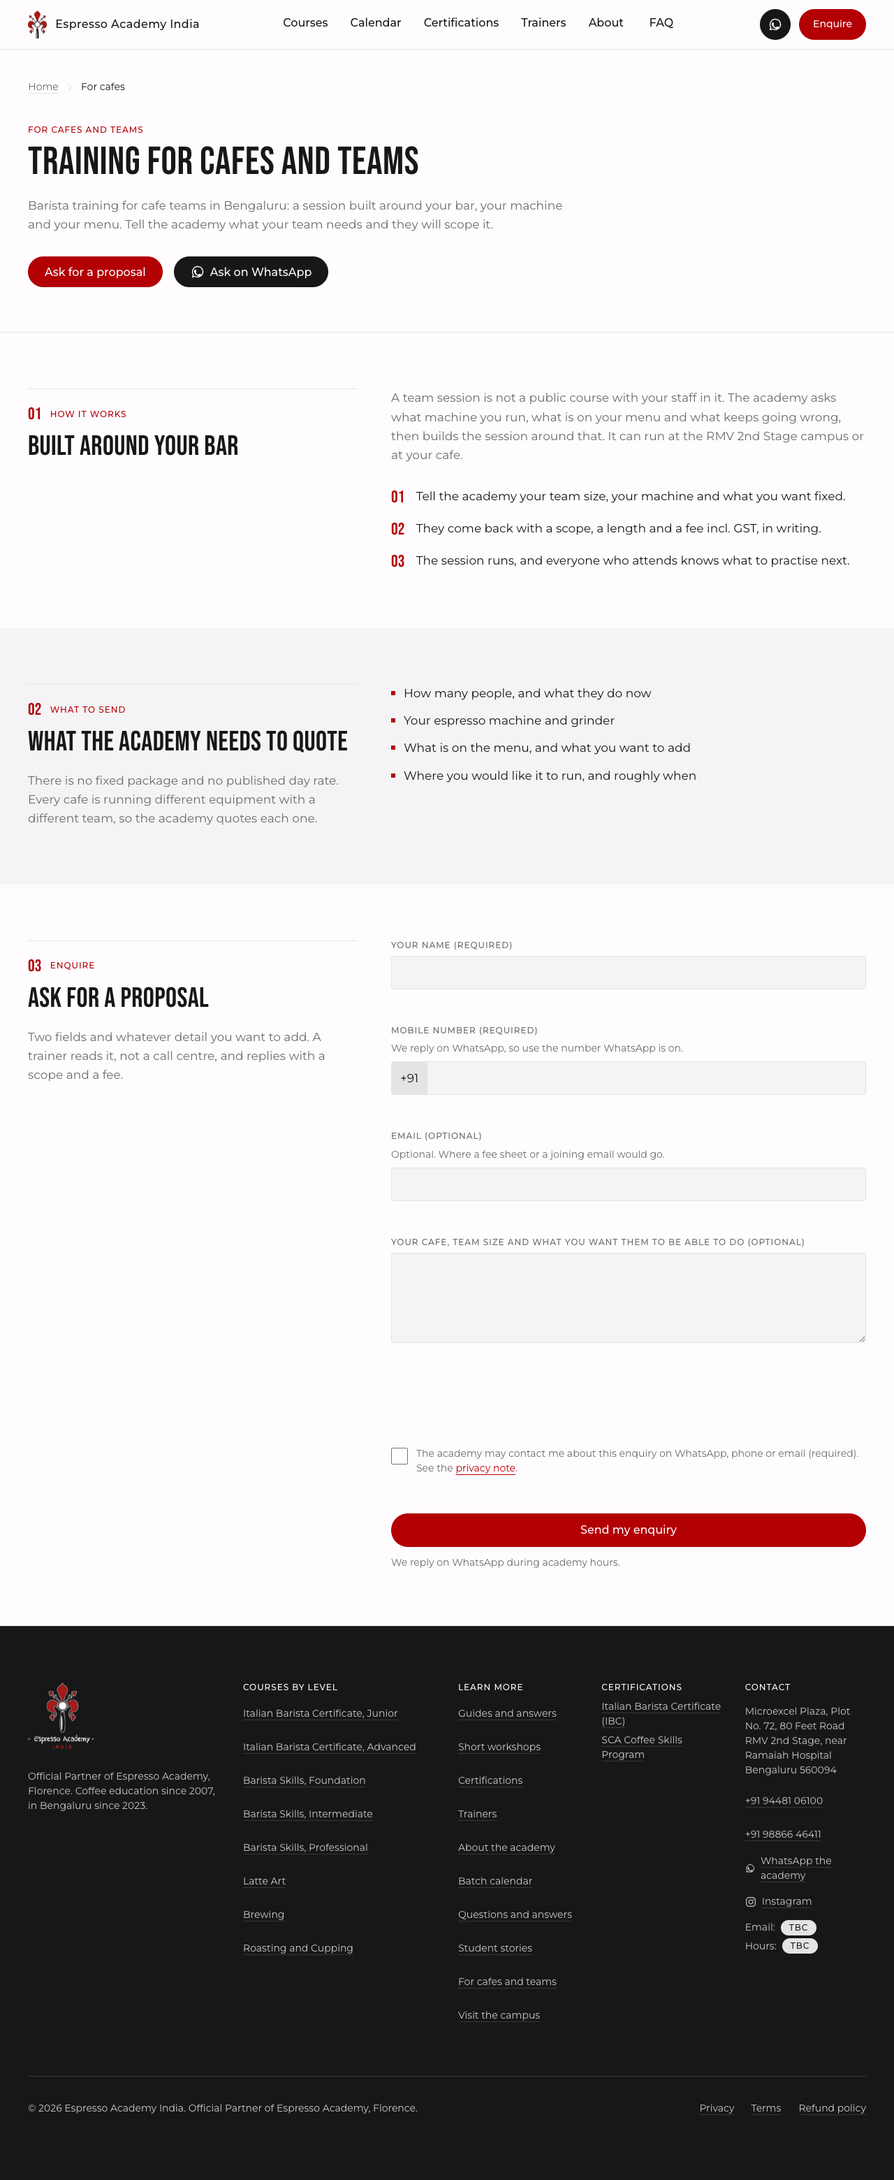
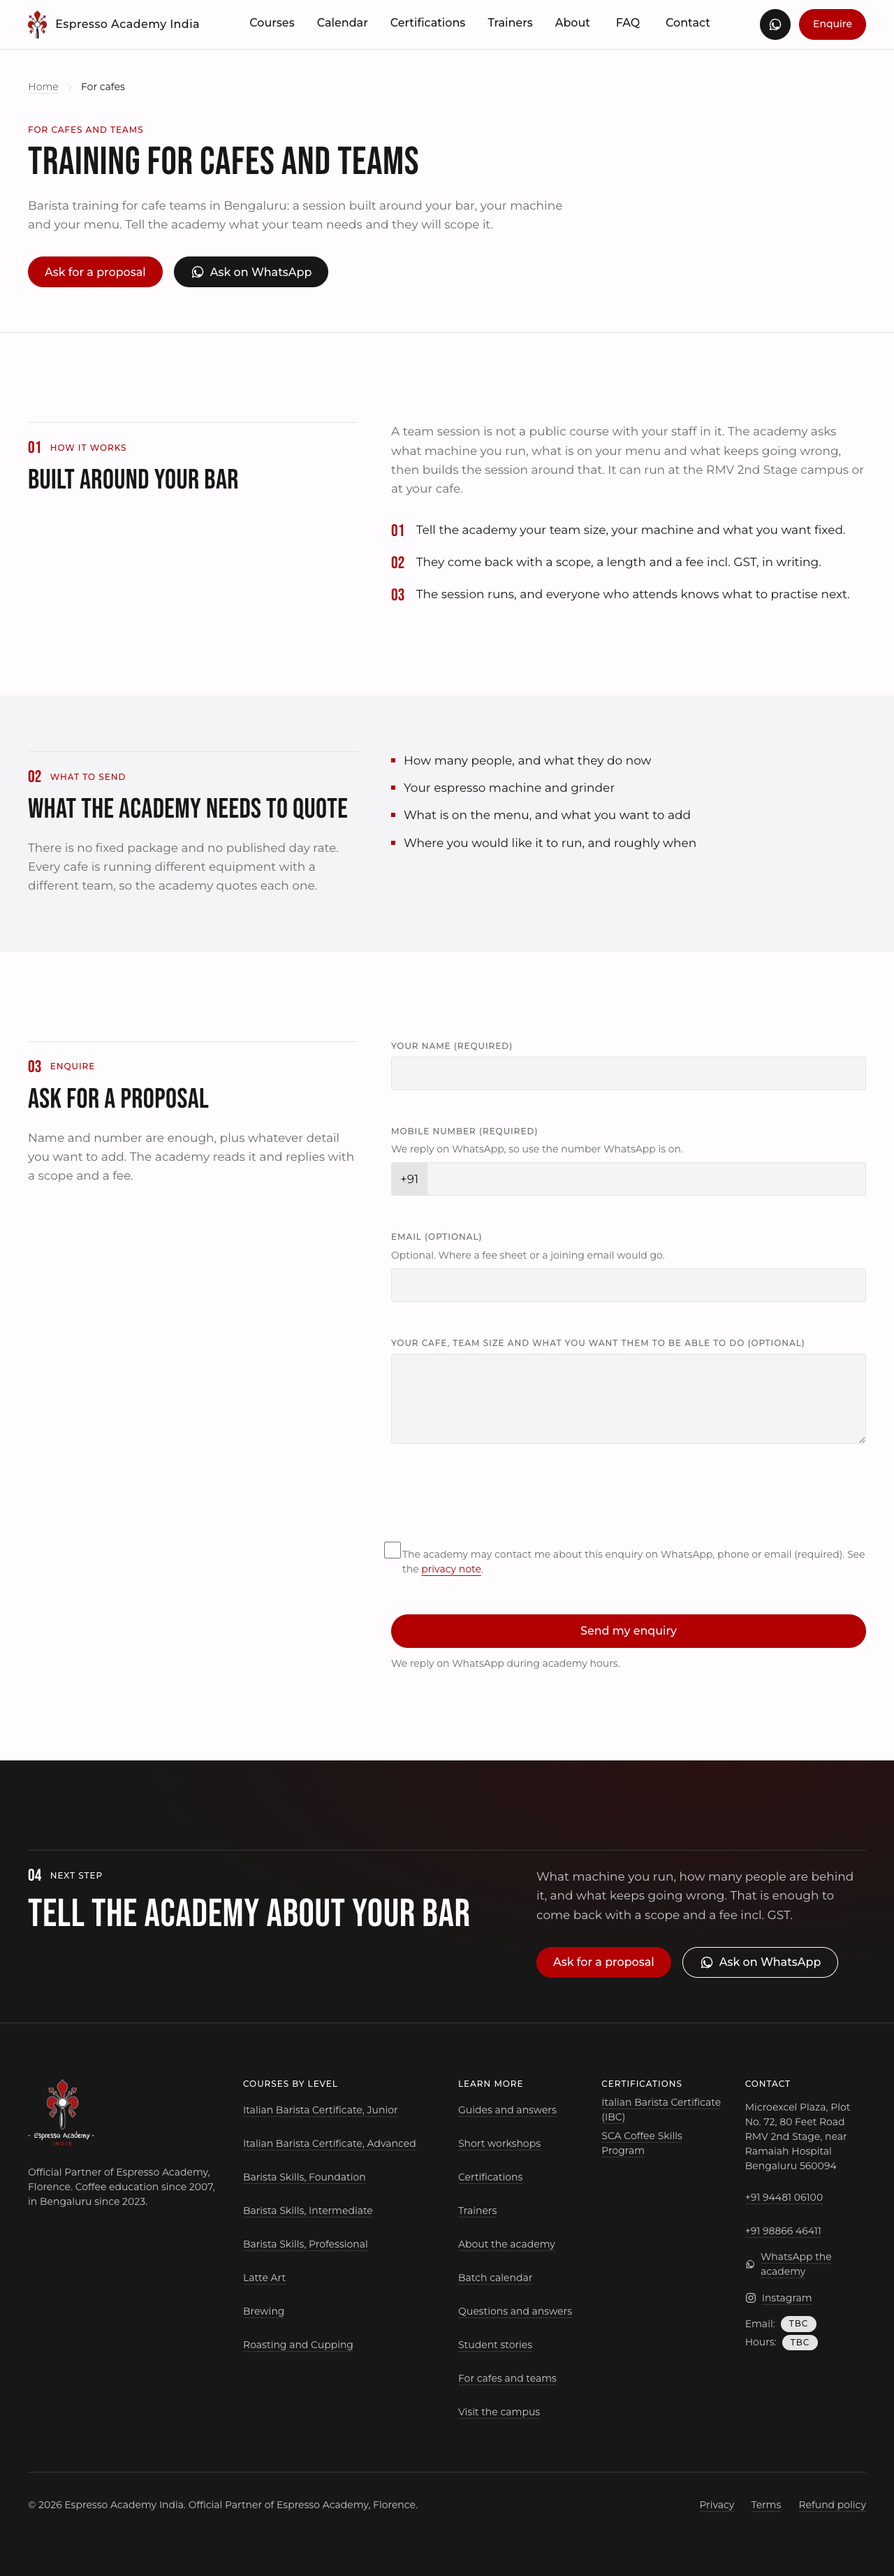
fix(a11y,guides): what the design review of /guides and /for-cafes found
**The 44px checkbox target did not exist.** Chrome's LayoutTheme resets padding and border on a
checkbox with `appearance: auto`, so `box-content p-2.5 border` computed to nothing while the
negative margins it was paired with did apply — pulling the box 10px out of the form column,
closing the gap to its label to 2px and putting the focus ring through the label text at 1280. A
net regression, and I had claimed it worked without measuring. The target is a wrapper the browser
does not special-case, and it measures 44x44 with the box drawn at 24px, aligned to the column,
12px gap, on all three forms at 390 and 1280.

**/guides printed "The answer is being written" on every card** — the same sentence twice at the
same height at 1280, which reads as a rendering fault rather than an honest state. Said once in the
section description now. The hub also moves to the standard rhythm, the date sits above the call to
action rather than orphaned below it, the CTA says "Ask your question" under a heading that offers
an answer, and the empty state gets its 8px radius.

**A bodyless guide made three promises it did not keep**: it told the reader to ask on WhatsApp and
offered no WhatsApp, printed "06 NEXT STEP" on a page with one section, and shipped an Article node
plus an invitation to index a page with no article. All three closed. The routes test now branches
on the page state instead of the fixture — a guide is indexable with a body or noindex without one,
[…]

diff --git a/src/app/guides/[slug]/page.tsx b/src/app/guides/[slug]/page.tsx
@@ -7,6 +7,7 @@ import { Breadcrumbs } from "@/components/site/Breadcrumbs";
 import { JsonLd } from "@/components/site/JsonLd";
 import { SanityPhoto } from "@/components/site/SanityPhoto";
 import { FinalCta } from "@/components/sections/FinalCta";
+import { WhatsAppButton } from "@/components/site/WhatsAppButton";
 import { PortableText, faqEntriesFromBody } from "@/components/content/PortableText";
 import { GuideReadTracker } from "@/components/content/GuideReadTracker";
 import { getGuide, getGuideSlugs } from "@/lib/content";
@@ -24,7 +25,15 @@ export async function generateMetadata({ params }: PageProps<"/guides/[slug]">):
   const guide = await getGuide(slug);
   if (!guide) return { title: "Guide not found" };
 
+  /*
+   * A guide whose body is still authoring scaffolding is a title, a date and an apology. Letting a
+   * crawler index that is asking to be judged on a thin page, and the Article node below would be
+   * asserting an article that is not there. Both come back the moment a body does.
+   */
+  const hasBody = (guide.body?.length ?? 0) > 0;
+
   return pageMetadata({
+    noindex: !hasBody,
     title: guide.seo?.title || guide.title,
     /* The guide's own answer if it has one, then its SEO field, then the title as a sentence.
        Never "": a stripped placeholder excerpt was shipping an empty meta description. */
@@ -57,6 +66,8 @@ export default async function GuidePage({ params }: PageProps<"/guides/[slug]">)
 
   const faqs = faqEntriesFromBody(guide.body);
   const published = guide.publishedAt;
+  /** Same test `generateMetadata` uses to withhold indexing: no article, no Article node. */
+  const hasBodyForSchema = (guide.body?.length ?? 0) > 0;
   const updated = guide.updatedAt;
 
   return (
@@ -122,7 +133,9 @@ export default async function GuidePage({ params }: PageProps<"/guides/[slug]">)
 
               {(guide.primaryCourse || guide.primaryCertification) && (
                 <aside className="mt-8 border border-white-2 p-6">
-                  <h2 className="type-label text-grey">What this is about</h2>
+                  {/* A label for a widget, not a section heading: at 12px it sat in the outline
+                    beside the page's own 36px h2s. */}
+                <p className="type-label text-grey">What this is about</p>
                   <ul className="mt-3 flex flex-col gap-2 type-body">
                     {guide.primaryCourse && (
                       <li>
@@ -157,12 +170,19 @@ export default async function GuidePage({ params }: PageProps<"/guides/[slug]">)
               ) : (
                 /* Every paragraph in this guide is still the brief its writer was given, and the
                    data layer drops those. Saying so is honest; printing the brief was not. */
-                <div className="border border-white-2 bg-white-3 p-6 md:p-10">
+                <div className="rounded-sm border border-white-2 bg-white-3 p-6 md:p-10">
                   <p className="type-h3 text-black">This guide is being written</p>
                   <p className="mt-4 measure type-body text-grey">
                     The question in the title is a real one and the answer is on its way. Ask it on
                     WhatsApp in the meantime and the academy will answer it directly.
                   </p>
+                  {/* The sentence above promises WhatsApp; on desktop there is no sticky bar, so
+                      without this the instruction has no target anywhere near it. */}
+                  <WhatsAppButton
+                    course={guide.title}
+                    event="whatsapp_click_guide_empty"
+                    className="mt-6"
+                  />
                 </div>
               )}
 
@@ -184,6 +204,9 @@ export default async function GuidePage({ params }: PageProps<"/guides/[slug]">)
       </article>
 
       <FinalCta
+        /* Without this it takes FinalCta's "06" default and prints "06 NEXT STEP" on a page whose
+           sections do not go past one. */
+        number="01"
         title="Still not sure which one is yours?"
         body={
           <p>
@@ -196,8 +219,11 @@ export default async function GuidePage({ params }: PageProps<"/guides/[slug]">)
       <JsonLd
         id="guide-jsonld"
         data={graph([
-          {
-            "@type": "Article",
+          // No Article node without an article. Structured data that asserts content the page
+          // does not have is the kind of mismatch a search engine is entitled to distrust.
+          ...(hasBodyForSchema
+            ? [{
+            "@type": "Article" as const,
             "@id": absoluteUrl(`/guides/${guide.slug}#article`),
             headline: guide.title,
             ...(guide.excerpt ? { description: guide.excerpt } : {}),
@@ -212,7 +238,8 @@ export default async function GuidePage({ params }: PageProps<"/guides/[slug]">)
             publisher: { "@id": schemaIds.ORGANISATION_ID },
             inLanguage: "en-IN",
             isPartOf: { "@id": schemaIds.WEBSITE_ID },
-          },
+          }]
+            : []),
           ...(faqs.length > 0 ? [faqNode(faqs, `/guides/${guide.slug}`)] : []),
         ])}
       />

diff --git a/src/components/booking/CheckoutForm.tsx b/src/components/booking/CheckoutForm.tsx
@@ -418,23 +418,23 @@ export function CheckoutForm({
             htmlFor={field("prerequisiteAccepted")}
             className="flex min-h-11 cursor-pointer items-start gap-3 py-1 type-body text-black"
           >
-            <input
-              id={field("prerequisiteAccepted")}
-              name="prerequisiteAccepted"
-              type="checkbox"
-              checked={prerequisiteAccepted}
-              onChange={(event) => setPrerequisiteAccepted(event.target.checked)}
-              onBlur={onBlur("prerequisiteAccepted")}
-              aria-invalid={Boolean(errors.prerequisiteAccepted)}
-              aria-describedby={
-                errors.prerequisiteAccepted ? field("prerequisiteAccepted-error") : undefined
-              }
-              /* 24px box, 44px target. `box-content` with 10px of padding grows the hit area to
-               44x44 without changing what is drawn, and the negative margin keeps the text aligned
-               to the box rather than to the padding. WCAG 2.5.8 asks for 24; this project asks for
-               44, and a checkbox is the control most often missed on a phone. */
-            className="-m-2.5 -mt-2 box-content size-6 shrink-0 rounded-xs border border-white-2 p-2.5 accent-red"
-            />
+            {/* The box gets its own 44px cell. The label around it already makes the whole
+                row clickable; this is so the box a thumb aims at is a target too. */}
+            <span className="-m-2.5 flex size-11 shrink-0 items-center justify-center">
+              <input
+                id={field("prerequisiteAccepted")}
+                name="prerequisiteAccepted"
+                type="checkbox"
+                checked={prerequisiteAccepted}
+                onChange={(event) => setPrerequisiteAccepted(event.target.checked)}
+                onBlur={onBlur("prerequisiteAccepted")}
+                aria-invalid={Boolean(errors.prerequisiteAccepted)}
+                aria-describedby={
+                  errors.prerequisiteAccepted ? field("prerequisiteAccepted-error") : undefined
+                }
+              className="size-6 shrink-0 accent-red"
+              />
+            </span>
             <span>I confirm I meet the prerequisite: {prerequisite}</span>
           </label>
           <FieldError id={field("prerequisiteAccepted-error")} message={errors.prerequisiteAccepted} />
@@ -446,21 +446,21 @@ export function CheckoutForm({
           htmlFor={field("consent")}
           className="flex min-h-11 cursor-pointer items-start gap-3 py-1 type-body text-black"
         >
-          <input
-            id={field("consent")}
-            name="consent"
-            type="checkbox"
-            checked={consent}
-            onChange={(event) => setConsent(event.target.checked)}
-            onBlur={onBlur("consent")}
-            aria-invalid={Boolean(errors.consent)}
-            aria-describedby={errors.consent ? field("consent-error") : undefined}
-            /* 24px box, 44px target. `box-content` with 10px of padding grows the hit area to
-               44x44 without changing what is drawn, and the negative margin keeps the text aligned
-               to the box rather than to the padding. WCAG 2.5.8 asks for 24; this project asks for
-               44, and a checkbox is the control most often missed on a phone. */
-            className="-m-2.5 -mt-2 box-content size-6 shrink-0 rounded-xs border border-white-2 p-2.5 accent-red"
-          />
+          {/* The box gets its own 44px cell. The label around it already makes the whole
+              row clickable; this is so the box a thumb aims at is a target too. */}
+          <span className="-m-2.5 flex size-11 shrink-0 items-center justify-center">
+            <input
+              id={field("consent")}
+              name="consent"
+              type="checkbox"
+              checked={consent}
+              onChange={(event) => setConsent(event.target.checked)}
+              onBlur={onBlur("consent")}
+              aria-invalid={Boolean(errors.consent)}
+              aria-describedby={errors.consent ? field("consent-error") : undefined}
+              className="size-6 shrink-0 accent-red"
+            />
+          </span>
           <span>
             The academy may contact me about this booking. See the{" "}
             <Link href="/privacy" className="text-red underline decoration-1 underline-offset-4">

diff --git a/src/app/guides/page.tsx b/src/app/guides/page.tsx
@@ -53,14 +53,23 @@ export default async function GuidesPage() {
         }
       />
 
-      <section className="section-y-sm" aria-labelledby="guides-heading">
+      <section className="section-y" aria-labelledby="guides-heading">
         <Container>
-          <SectionHeading number="01" eyebrow="Guides" title="Every guide" id="guides-heading" />
+          <SectionHeading
+            number="01"
+            eyebrow="Guides"
+            title="Every guide"
+            id="guides-heading"
+            /* Said once, here. Printing "The answer is being written" on every card put the same
+               sentence twice at the same height at 1280, which reads as a rendering fault rather
+               than as an honest state. */
+            description="Several of these are still being written. Ask on WhatsApp in the meantime and the academy will answer directly."
+          />
 
           {guides.length === 0 ? (
             /* TODO(client): no guide has been published yet. The empty state offers the two
                things a reader came here for rather than an apology. */
-            <div className="mt-8 border border-white-2 bg-white-3 p-6 md:p-10">
+            <div className="mt-8 rounded-sm border border-white-2 bg-white-3 p-6 md:p-10">
               <h3 className="type-h3 text-black">The guides are being written</h3>
               <p className="mt-4 measure type-body text-grey">
                 Until they are up, the fastest way to get an answer is to ask. The academy
@@ -95,25 +104,26 @@ export default async function GuidesPage() {
                       </h3>
                       {/* The answer, when there is one. A guide whose summary has not been
                           written says so rather than printing the brief the writer was given. */}
-                      <p className="mt-3 measure type-body text-grey">
-                        {guide.excerpt || "The answer is being written."}
-                      </p>
-                      <p className="mt-auto pt-5 flex items-center gap-2 type-label text-red">
+                      {guide.excerpt && (
+                        <p className="mt-3 measure type-body text-grey">{guide.excerpt}</p>
+                      )}
+                      {/* TODO(client): no byline until content/facts.md records a signed article.
+                          Attributing a placeholder to a named trainer puts words in their mouth,
+                          and "Checked by" claimed a review that has not happened. The date stays:
+                          it is a fact about the document. It sits above the call to action, which
+                          belongs last on a card. */}
+                      {guide.publishedAt && (
+                        <p className="mt-auto pt-5 type-small text-grey">
+                          {formatDate(guide.publishedAt)}
+                        </p>
+                      )}
+                      <p className="mt-3 flex items-center gap-2 type-label text-red">
                         Read it
                         <ArrowRight
                           className="size-4 transition-transform duration-200 group-hover:translate-x-1"
                           aria-hidden="true"
                         />
                       </p>
-                      {/* TODO(client): no byline until content/facts.md records a signed article.
-                          Attributing a placeholder to a named trainer puts words in their mouth,
-                          and "Checked by" claimed a review that has not happened. The date stays:
-                          it is a fact about the document. */}
-                      {guide.publishedAt && (
-                        <p className="mt-3 type-small text-grey">
-                          {formatDate(guide.publishedAt)}
-                        </p>
-                      )}
                     </Link>
                   </article>
                 </li>
@@ -125,6 +135,7 @@ export default async function GuidesPage() {
 
       <FinalCta
         number="02"
+        ctaLabel="Ask your question"
         title="Ask the question that is not answered here"
         body={
           <p>

diff --git a/src/components/forms/EnquiryForm.tsx b/src/components/forms/EnquiryForm.tsx
@@ -455,22 +455,32 @@ export function EnquiryForm({
             the label beside it is associated by htmlFor, so tapping the sentence toggles the box.
             Padding the input itself does nothing, because padding around an input is not clickable. */}
         <div className="flex min-h-11 items-start gap-3">
-          <input
-            id={field("consent")}
-            name="consent"
-            type="checkbox"
-            checked={consent}
-            onChange={(event) => setConsent(event.target.checked)}
-            onBlur={onBlur("consent")}
-            aria-invalid={Boolean(errors.consent)}
-            aria-describedby={errors.consent ? field("consent-error") : undefined}
-            // size-6 is the 24px WCAG 2.2 target minimum; the associated label extends the hit area.
-            /* 24px box, 44px target. `box-content` with 10px of padding grows the hit area to
-               44x44 without changing what is drawn, and the negative margin keeps the text aligned
-               to the box rather than to the padding. WCAG 2.5.8 asks for 24; this project asks for
-               44, and a checkbox is the control most often missed on a phone. */
-            className="-m-2.5 -mt-2 box-content size-6 shrink-0 rounded-xs border border-white-2 p-2.5 accent-red"
-          />
+          {/*
+            24px box, 44px target, and the target has to be the wrapper.
+            Padding the input does nothing: Chrome resets padding and border on a checkbox with
+            `appearance: auto`, so an earlier attempt at `box-content p-2.5` left the hit area at
+            24x24 while its negative margins did apply — pulling the box 10px out of the form
+            column and closing the gap to the label to 2px. The label wraps the input instead, and
+            a wrapper the browser does not special-case keeps its 44x44. It carries no text, so the
+            accessible name still comes from the sentence beside it.
+          */}
+          {/* eslint-disable-next-line jsx-a11y/label-has-associated-control -- this label exists to
+              enlarge the target, not to name the control: it wraps the input and carries no text,
+              and the sentence beside it is the accessible name via htmlFor. Giving it text would
+              name the checkbox twice. */}
+          <label className="-m-2.5 flex size-11 shrink-0 cursor-pointer items-center justify-center">
+            <input
+              id={field("consent")}
+              name="consent"
+              type="checkbox"
+              checked={consent}
+              onChange={(event) => setConsent(event.target.checked)}
+              onBlur={onBlur("consent")}
+              aria-invalid={Boolean(errors.consent)}
+              aria-describedby={errors.consent ? field("consent-error") : undefined}
+              className="size-6 shrink-0 accent-red"
+            />
+          </label>
           <label htmlFor={field("consent")} className="type-small text-grey">
             The academy may contact me about this enquiry on WhatsApp, phone or email (required).
             See the{" "}

diff --git a/tests/e2e/routes.spec.ts b/tests/e2e/routes.spec.ts
@@ -79,8 +79,28 @@ test.describe("every route", () => {
         .first()
         .getAttribute("content");
       if (route.index) {
-        expect(robots ?? "index").toContain("index");
-        expect(robots ?? "").not.toContain("noindex");
+        /*
+         * A guide withholds indexing while its body is still authoring scaffolding: a title, a
+         * date and an apology is a thin page, and the Article node is suppressed with it. So the
+         * assertion is the *relationship* rather than a fixed verdict — the same shape the
+         * calendar test uses. What must never happen is a page that is indexable and empty.
+         */
+        const hasArticle = typesIn(blocks).includes("Article");
+        const beingWritten = await page.getByText("This guide is being written").count();
+
+        if (beingWritten > 0) {
+          expect(
+            robots ?? "",
+            `${route.path} has no body, so it must not invite a crawler`,
+          ).toContain("noindex");
+          expect(
+            hasArticle,
+            `${route.path} has no body, so it must not claim an Article`,
+          ).toBe(false);
+        } else {
+          expect(robots ?? "index").toContain("index");
+          expect(robots ?? "").not.toContain("noindex");
+        }
       } else {
         expect(robots ?? "").toContain("noindex");
       }

diff --git a/src/app/for-cafes/page.tsx b/src/app/for-cafes/page.tsx
@@ -151,7 +151,10 @@ function FallbackSections({
                   "The session runs, and everyone who attends knows what to practise next.",
                 ].map((step, index) => (
                   <li key={step} className="flex gap-4">
-                    <span className="type-numeral text-h3-lg text-red" aria-hidden="true">
+                    {/* Grey, not red. In red Bebas at this size it is byte-for-byte the section
+                        numeral treatment, so section 01 contained a second "01" 250px below the
+                        first and scanning the red numerals down the page read 01, 01, 02, 03, 02. */}
+                    <span className="type-numeral text-h3-lg text-grey" aria-hidden="true">
                       {String(index + 1).padStart(2, "0")}
                     </span>
                     <span className="measure type-body text-black">{step}</span>
